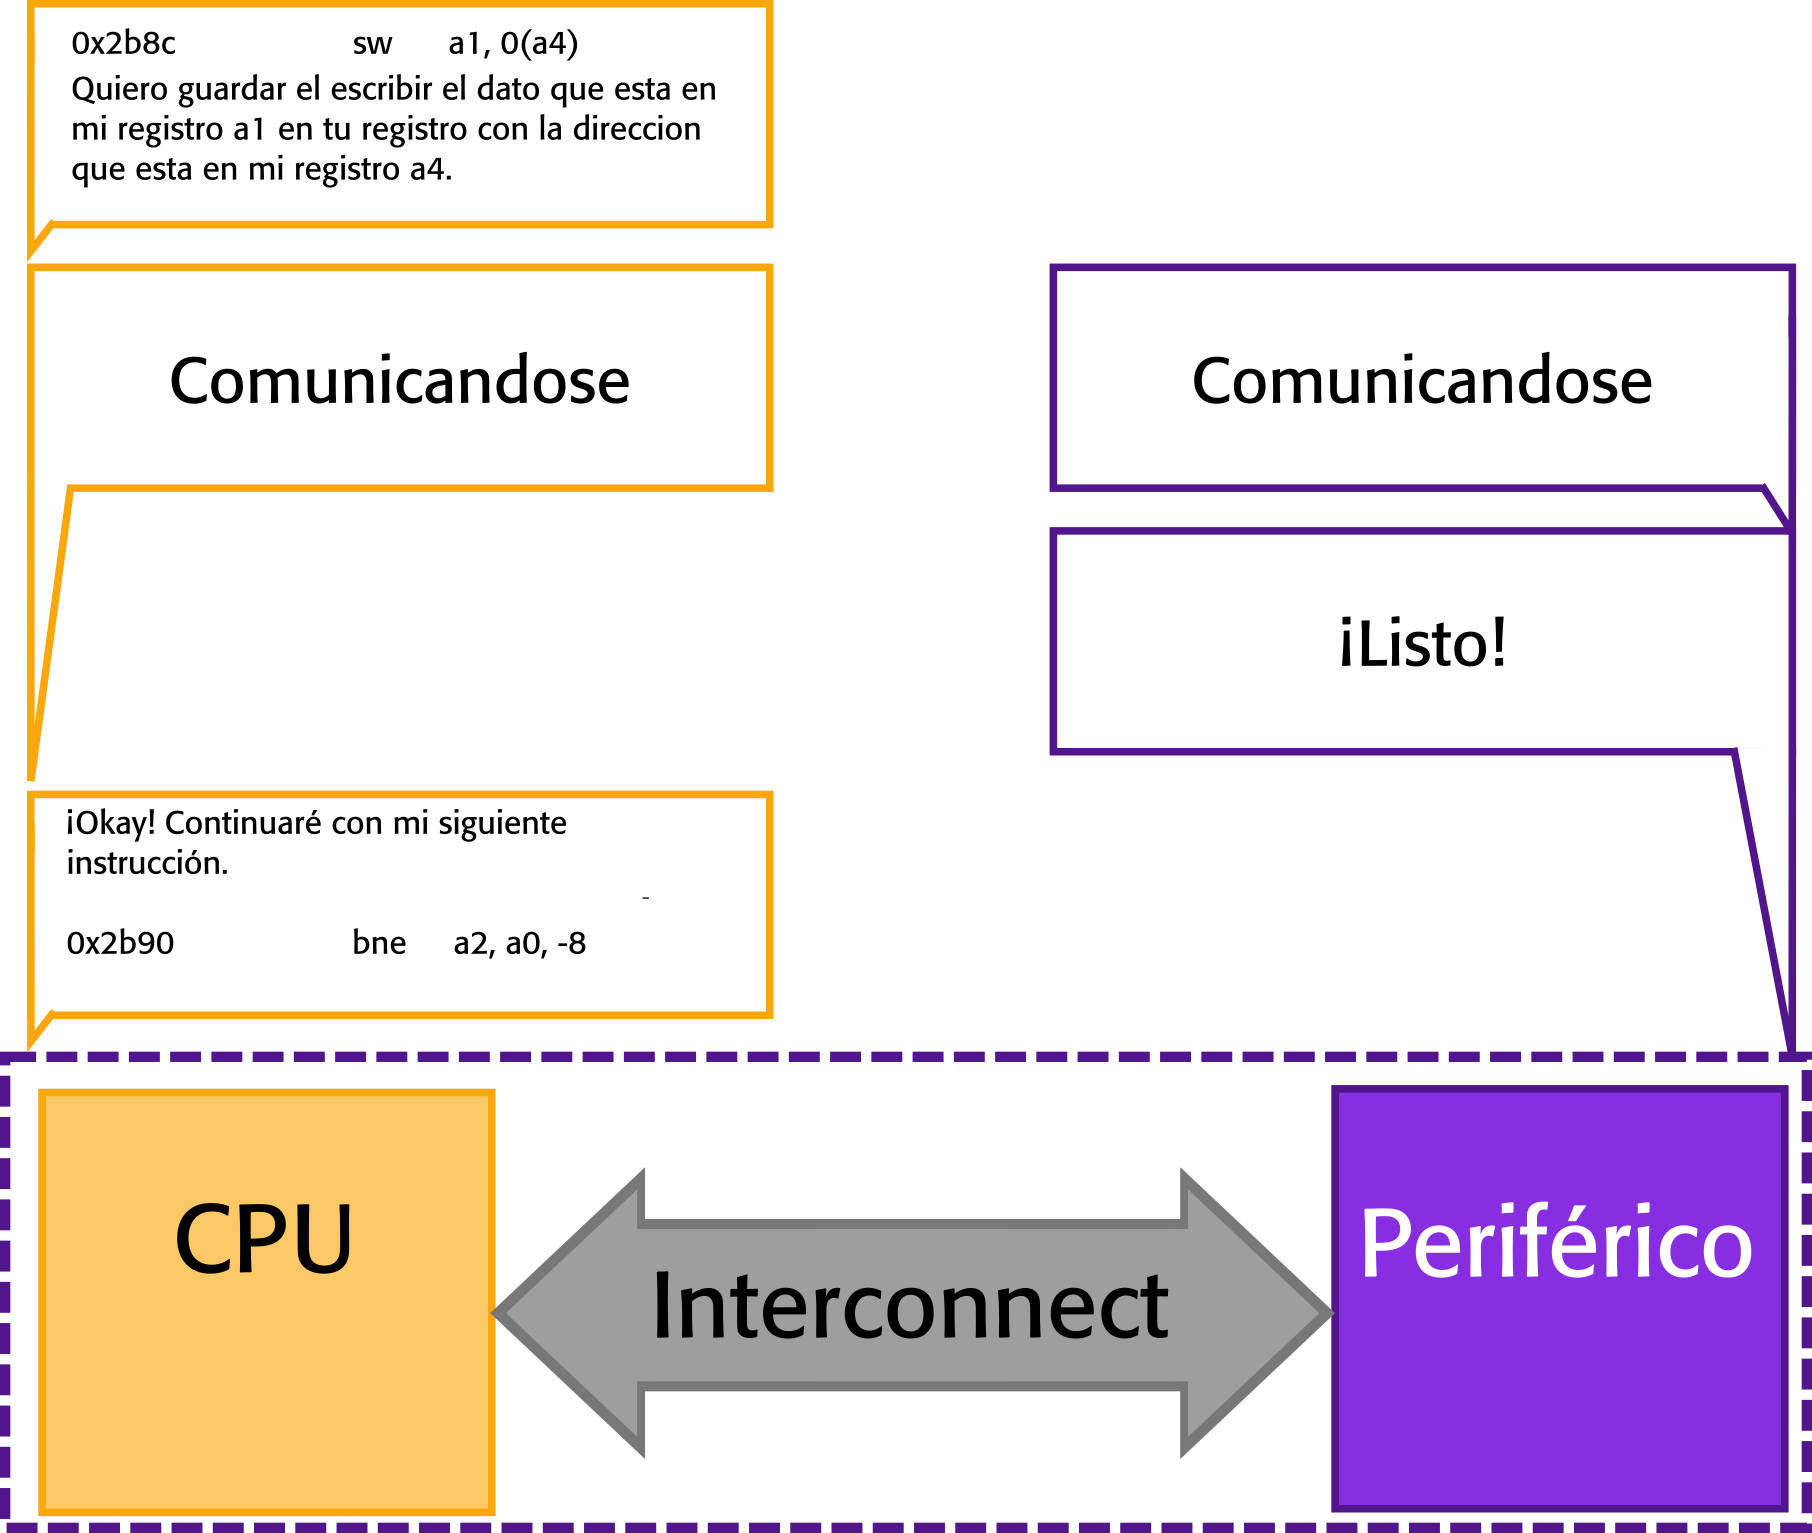
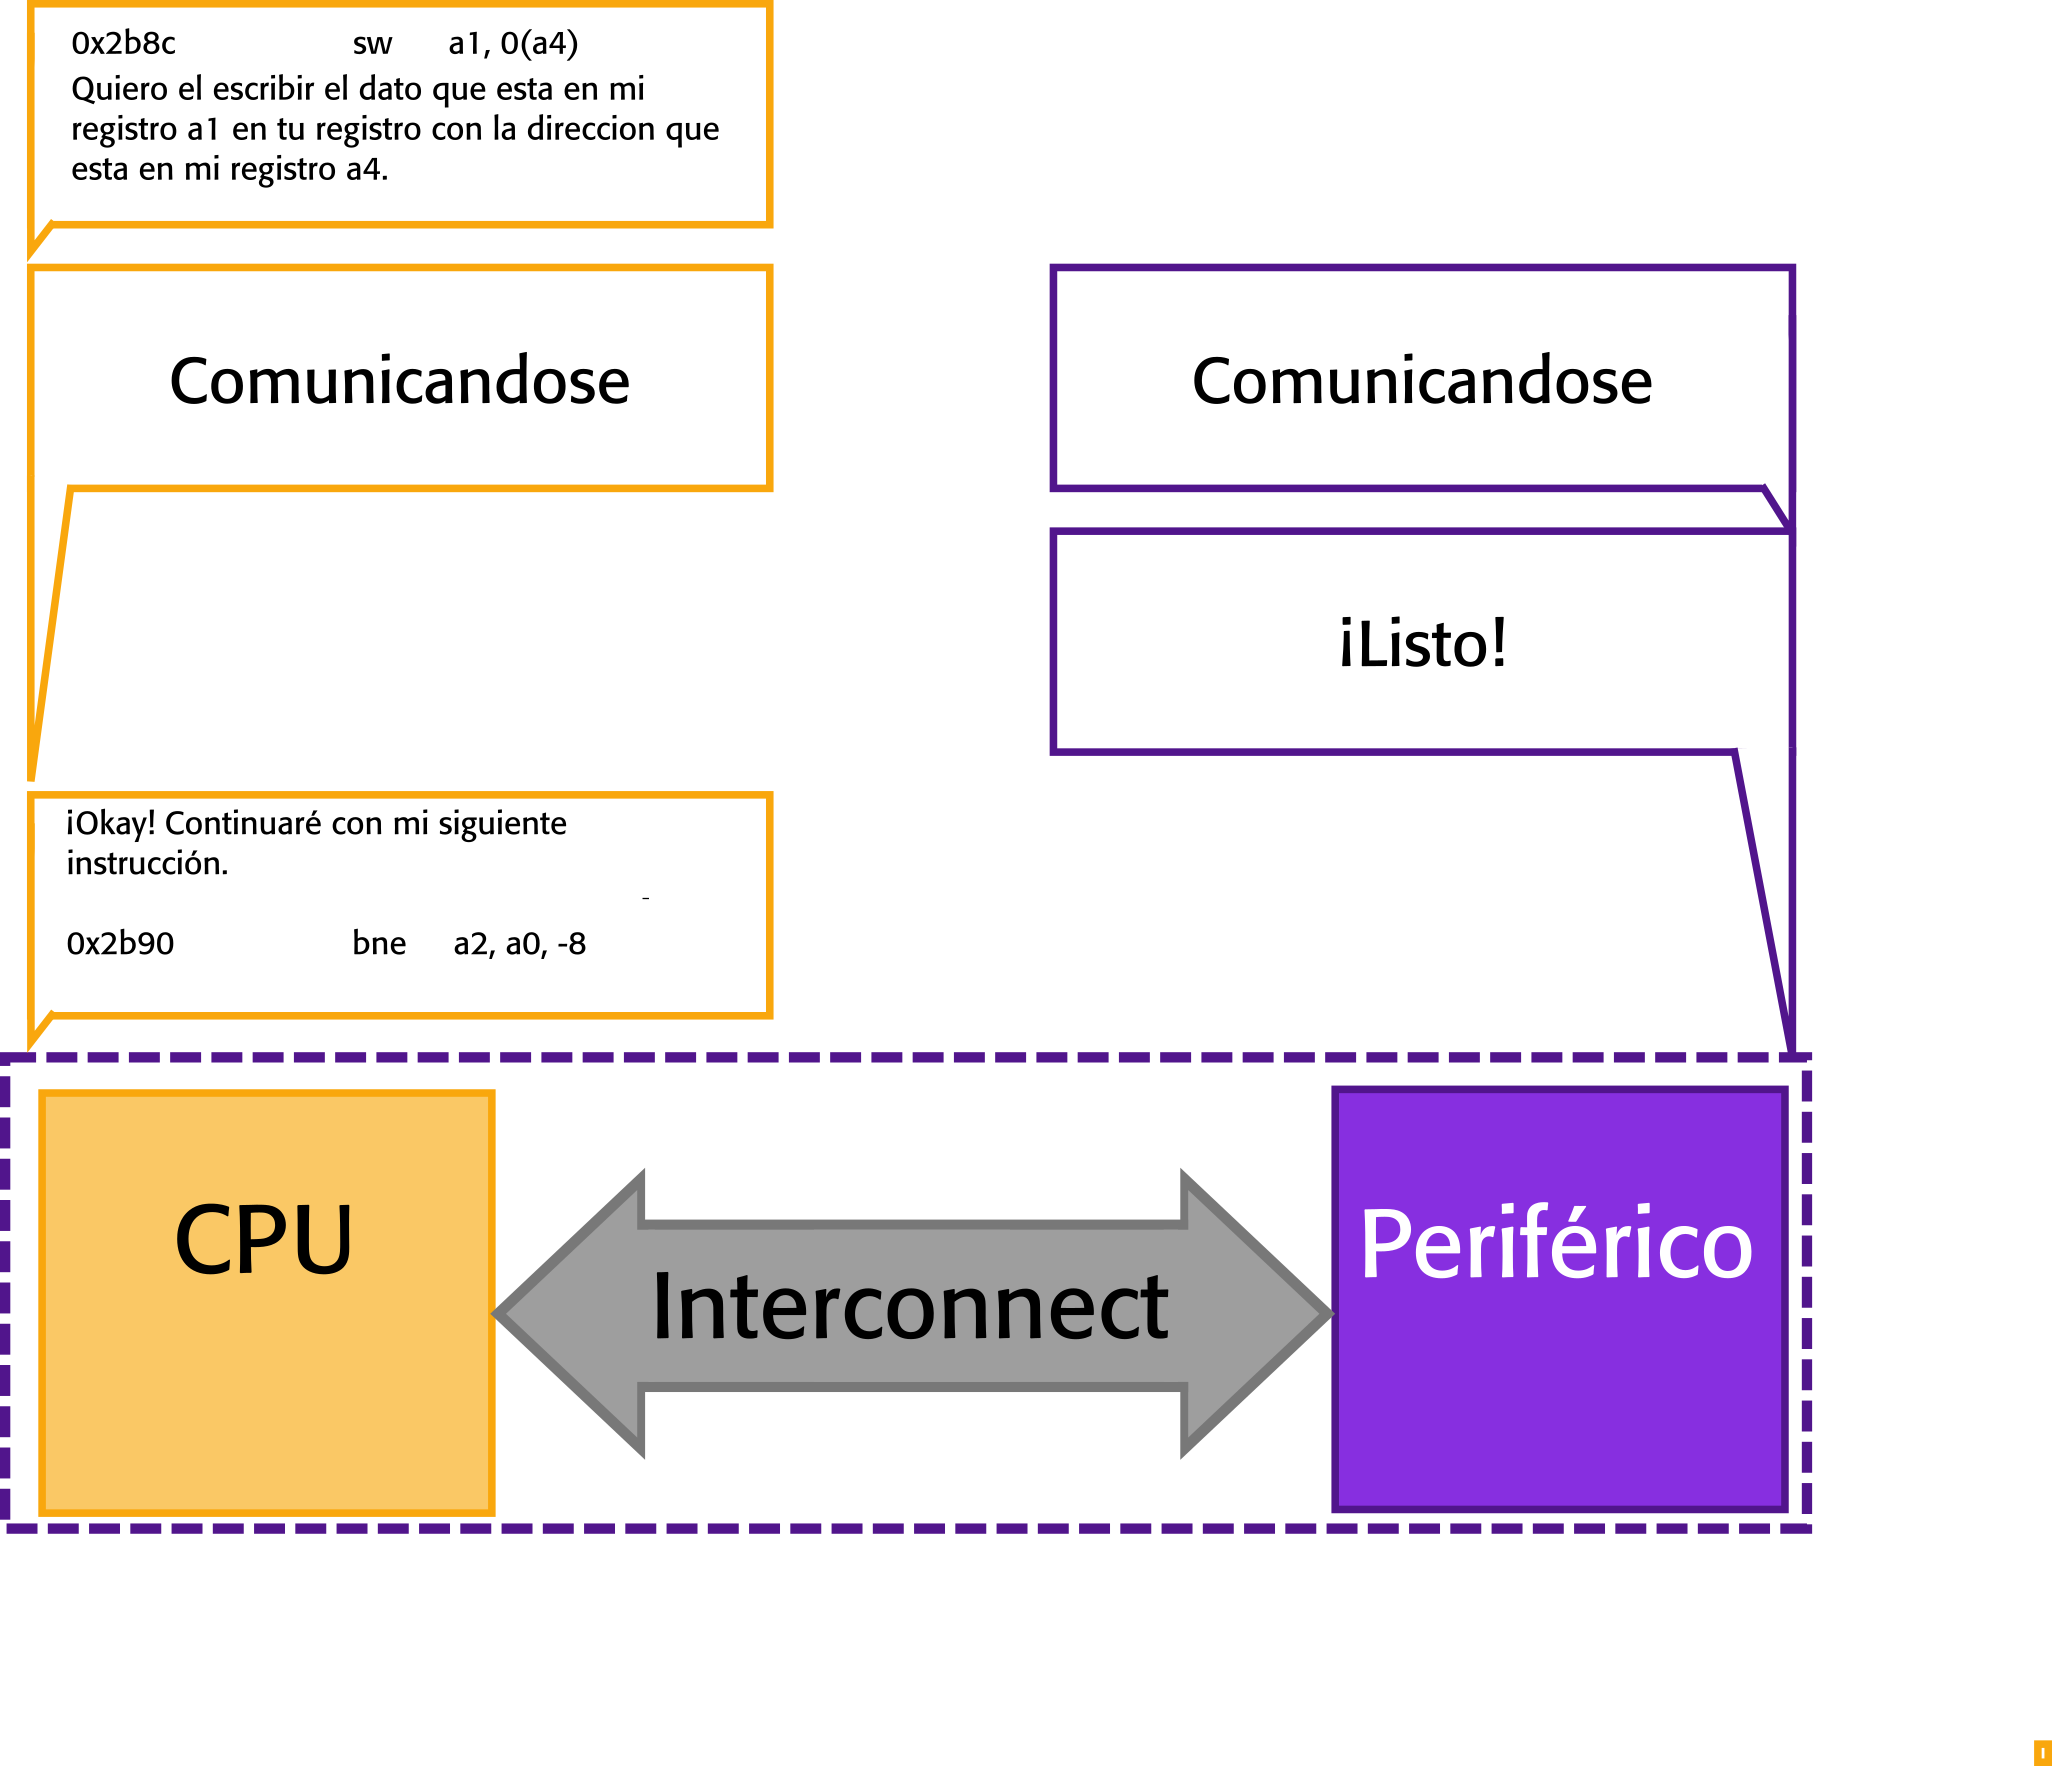
Added assembly analysis

diff --git a/docs/javascripts/mathjax.js b/docs/javascripts/mathjax.js
@@ -1,0 +1,19 @@
+window.MathJax = {
+  tex: {
+    inlineMath: [["\\(", "\\)"]],
+    displayMath: [["\\[", "\\]"]],
+    processEscapes: true,
+    processEnvironments: true
+  },
+  options: {
+    ignoreHtmlClass: ".*|",
+    processHtmlClass: "arithmatex"
+  }
+};
+
+document$.subscribe(() => {
+  MathJax.startup.output.clearCache()
+  MathJax.typesetClear()
+  MathJax.texReset()
+  MathJax.typesetPromise()
+})

diff --git a/docs/Ejemplo_9_MedirLatencia/Ejemplo_9.md b/docs/Ejemplo_9_MedirLatencia/Ejemplo_9.md
@@ -102,25 +102,315 @@ Una vez realizadas todas las conexiones, se deberia ver como en la [](#fig_BD_Fi
 
 Tras verificar que el diseño esta correctamente diseñado a nivel de interconexiones, genere la envoltura de hdl, corra síntesis, implementacion y exporte el hardware.
 
-Agregar repo de sw...
+Una vez exportado el hardware, **NO CIERRE VIVADO**  y abra Vitis.
+
+Una vez en vitis, agregue la carpeta donde se guardan los drivers a los repositorios de software como se vio en guias anteriores.
 
 
+![Carpeta de driver agregada a los repositorios de software](img/software_Repo.png){ #fig_Software_repo width="1500" }
 
-![Template](img/software_Repo.png){ #fig_Software_repo width="1500" }
+Genere el componente de plataforma, deberia poder visualizar los periféricos en la perspectiva de BSP.
 
+![Drivers de periféricos vistos desde el BSP](img/Drivers.png){ #fig_Software_repo width="1500" }
 
-
-Generar plataforma 
-
-Ver drivers
-
-![Template](img/Drivers.png){ #fig_Software_repo width="1500" }
-
-Generar aplicación
+Finalmente genere el componente de aplicación.
 
 
 ## Diseño de Firmware
 
+Debido a la complejidad de este ejemplo, se hara uso de 3 componentes de aplicación, con 2 siendo asignados al analisis de los drivers de los perfiericos, mientras que el primer ejemplo esta dedicado a entender como la latencia de la comunicación afecta al uso efectivo del periférico por parte del procesador.
+
+### Ejemplo mínimo escritura
+
+Importe el ejemplo Test_assembly.c a su proyecto:
+```c
+#include "xil_printf.h"
+#include "xtmrctr.h"
+
+
+XTmrCtr     TimerInstance;
+
+#define TIMER_COUNTER_0   0
+#define TIMER_COUNTER_1   1
+
+int main(void)
+{
+    u32 ticks;
+    int Status;
+
+    Status = XTmrCtr_Initialize(&TimerInstance, XPAR_AXI_TIMER_0_BASEADDR);
+    if (Status != XST_SUCCESS) return XST_FAILURE;
+
+    /* ================================================================ */
+    /*  Overhead de medición.                                           */
+    /* ================================================================ */
+
+    XTmrCtr_Reset(&TimerInstance, TIMER_COUNTER_0);
+    XTmrCtr_Start(&TimerInstance, TIMER_COUNTER_0);
+    XTmrCtr_Stop(&TimerInstance, TIMER_COUNTER_0);
+    ticks = XTmrCtr_GetValue(&TimerInstance, TIMER_COUNTER_0);
+
+    xil_printf("Overhead ventana vacia: %d\r\n", ticks);
+
+
+
+    /* ================================================================ */
+    /*  Medición de escritura en un periferico                          */
+    /* ================================================================ */
+
+
+    u32 value = 1; 
+    u32 addr  = XPAR_AXI_LITE_ADDER_TREE_0_BASEADDR;
+
+    XTmrCtr_Reset(&TimerInstance, TIMER_COUNTER_0);
+    XTmrCtr_Start(&TimerInstance, TIMER_COUNTER_0);
+    __asm__ volatile (
+        "sw %0, 0(%1)"            
+        :                         
+        : "r"(value), "r"(addr)   
+        : "memory"
+    );
+    XTmrCtr_Stop(&TimerInstance, TIMER_COUNTER_0);
+    ticks = XTmrCtr_GetValue(&TimerInstance, TIMER_COUNTER_0);
+    xil_printf("ticks = %d\r\n", ticks);
+
+    /* ================================================================ */
+    /*  Medición de escritura en un periferico con 1 NOP                */
+    /* ================================================================ */
+
+
+     value = 1;  
+     addr  = XPAR_AXI_LITE_ADDER_TREE_0_BASEADDR;
+
+    XTmrCtr_Reset(&TimerInstance, TIMER_COUNTER_0);
+    XTmrCtr_Start(&TimerInstance, TIMER_COUNTER_0);
+    __asm__ volatile(
+    "nop\n\t"
+    "sw %0, 0(%1)\n\t"
+    :
+    : "r"(value), "r"(addr)
+    : "memory");
+    XTmrCtr_Stop(&TimerInstance, TIMER_COUNTER_0);
+    ticks = XTmrCtr_GetValue(&TimerInstance, TIMER_COUNTER_0);
+    xil_printf("ticks 1 nop = %d\r\n", ticks);
+
+    /* ================================================================ */
+    /*  Medición de escritura en un periferico con 2 NOP                */
+    /* ================================================================ */
+
+
+     value = 1;  
+     addr  = XPAR_AXI_LITE_ADDER_TREE_0_BASEADDR;
+
+    XTmrCtr_Reset(&TimerInstance, TIMER_COUNTER_0);
+    XTmrCtr_Start(&TimerInstance, TIMER_COUNTER_0);
+    __asm__ volatile(
+    "nop\n\t"
+    "nop\n\t"
+    "sw %0, 0(%1)\n\t"
+    :
+    : "r"(value), "r"(addr)
+    : "memory");
+    XTmrCtr_Stop(&TimerInstance, TIMER_COUNTER_0);
+    ticks = XTmrCtr_GetValue(&TimerInstance, TIMER_COUNTER_0);
+    xil_printf("ticks 2 nop = %d\r\n", ticks);
+
+
+
+    /* ================================================================ */
+    /*  Medición de escritura en un periferico con 3 NOP                */
+    /* ================================================================ */
+
+
+     value = 1;  
+     addr  = XPAR_AXI_LITE_ADDER_TREE_0_BASEADDR;
+
+    XTmrCtr_Reset(&TimerInstance, TIMER_COUNTER_0);
+    XTmrCtr_Start(&TimerInstance, TIMER_COUNTER_0);
+    __asm__ volatile(
+    "nop\n\t"
+    "nop\n\t"
+    "nop\n\t"
+    "sw %0, 0(%1)\n\t"
+    :
+    : "r"(value), "r"(addr)
+    : "memory");
+    XTmrCtr_Stop(&TimerInstance, TIMER_COUNTER_0);
+    ticks = XTmrCtr_GetValue(&TimerInstance, TIMER_COUNTER_0);
+    xil_printf("ticks 3 nop = %d\r\n", ticks);
+    xil_printf("\r\n");
+   
+    return 0;
+}
+```
+Este codigo tiene el proposito de contar la cantidad de ciclos que se demora realizar una escritura en un periférico desde el procesador, para esto se inicia con una medicion del overhead que introduce el temporadizador para tenerlo en cuenta al momento de realizar las pruebas, tras lo cual se realizan distintas pruebas de escrituras sobre el periférico.
+
+Como se puede apreciar en el codigo desplegado, para poder bajar a un nivel de abstraccion mas bajo se hace uso de inline assembly, permitiendonos mayor control al momento de realizar escrituras. En este caso observando la diferencia entre el assembly de la primera medición podemos empezar a notar diferencias:
+
+
+
+
+<style>
+.asm-compare, .asm-compare tr, .asm-compare th, .asm-compare td {
+  border: none !important;
+  background: transparent !important;
+    margin-left: auto !important;
+  margin-right: auto !important;
+}
+.asm-compare pre, .asm-compare code {
+  font-size: 1em !important;
+}
+</style>
+
+<table class="asm-compare">
+<tr>
+<th>Medición Overhead</th>
+<th>Medición escritura sin NOP</th>
+</tr>
+<tr>
+<td>
+
+```asm
+940:  li    a1,0        # TIMER_COUNTER_0
+944:  lui   a5,0x2
+948:  addi  a0,a5,1956  # &TimerInstance
+94c:  auipc ra,0x1
+950:  jalr  1744(ra)    # llama a XTmrCtr_Stop
+```
+
+</td>
+<td>
+
+```asm
+9c8:  lw    a5,-36(s0)   # carga 'value' desde stack  
+9cc:  lw    a4,-40(s0)   # carga 'addr' desde stack   
+9d0:  sw    a5,0(a4)     # escribe a 0x44a00000       
+9d4:  li    a1,0
+9d8:  lui   a5,0x2
+9dc:  addi  a0,a5,1956
+9e0:  auipc ra,0x1
+9e4:  jalr  1596(ra)     # llama a XTmrCtr_Stop
+```
+
+</td>
+</tr>
+</table>
+
+Las diferencias entre ambos experimentos corresponden a tres instrucciones: dos instrucciones lw, que cargan desde el stack hacia los registros la dirección del periférico y el valor a escribir, y la instrucción `sw a5,0(a4)`, que realiza la escritura en el periférico. La instrucción sw utiliza como dirección el registro a4, cargado por la instrucción lw inmediatamente anterior, por lo que se produce un stall: el procesador detiene el avance de la instrucción dependiente en el pipeline hasta que el dato cargado esté disponible. En el pipeline de 5 etapas de MicroBlaze V, cuando una instrucción en la etapa de decodificación requiere el resultado de una carga que aún se encuentra en la etapa de ejecución, se produce un stall de 1 a 2 ciclos [como señala el manual](https://docs.amd.com/r/en-US/ug1629-microblaze-v-user-guide/5-Stage-Pipeline). Para poder verificar esto, se incluyen variaciones de la medición con 1,2 y 3 NOP.
+
+Luego, la escritura solo se considera completada cuando el procesador recibe, a través de la interfaz M_AXI_DP, la respuesta de escritura (canal B) proveniente del periférico a través del interconnect. Para verificar esto se hará uso del System ILA, como se vio en guias anteriores, hay que cambiar la configuración en vitis de tal manera que Vivado realice la programación del dispositivo a nivel de hardware
+
+
+![Configuración de ejecucion Vitis](img/no_program.png){ #fig width="1000" }
+
+Luego configure el gatillo del system ILA de tal manera que AWVALID del slot 2 (asociado al adder tree descrito en verilog) como se ve en la [](#fig-ILA-CHANNEL).
+
+![Configuración canal ILA](img/Ila_channel.png){ #fig-ILA-CHANNEL width="1500"}
+
+Finalmente programe el hardware y programe el ILA, luego ejecute la aplicacion desde Vitis, deberia visualizar la forma de onda en la [](#fig-WV). 
+
+![Comunicacion visualizada en el System ILA](img/ILA_WAVEFORM.png){ #fig-WV width="1500" }
+
+
+Esto nos dice que para esta configuración, la escritura de este dato se demora 9 ciclos de reloj, note que esto puede tener una variabilidad de un ciclo. Luego si tenemos en cuenta las instrucciones asociadas, siendo estas los dos lw y el sw :
+
+
+$$
+N_{cycles}= AXI_{transfer} + N_{instructions}+Stall_{cycles} 
+$$
+
+$$
+N_{cycles}= 9\pm1 + 3 +Stall_{cycles} 
+$$
+
+Luego si nos fijamos en el snippet de assembly nuevamente, podemos identificar la fuente del stall.
+
+
+```asm
+9c8:  lw    a5,-36(s0)   # carga 'value' desde stack al registro a5 
+9cc:  lw    a4,-40(s0)   # carga 'addr' desde stack al registro a4 (genera stall para que el valor de a4 este listo en la siguiente instruccion)
+9d0:  sw    a5,0(a4)     # escribe a 0x44a00000       
+9d4:  li    a1,0
+9d8:  lui   a5,0x2
+9dc:  addi  a0,a5,1956
+9e0:  auipc ra,0x1
+9e4:  jalr  1596(ra)     # llama a XTmrCtr_Stop
+```
+
+Se tienen dos ciclos de stall, por lo que se tiene
+
+$$
+N_{cycles}= 9\pm1 + 3 +2 
+$$
+
+$$
+N_{cycles}= 14\pm1 
+$$
+
+Finalmente para comprobar el stack, se mandan versiones con multiples NOP (No operation)
+
+<style>
+.asm-compare, .asm-compare tr, .asm-compare th, .asm-compare td {
+  border: none !important;
+  background: transparent !important;
+    margin-left: auto !important;
+  margin-right: auto !important;
+}
+.asm-compare pre, .asm-compare code {
+  font-size: 1em !important;
+}
+</style>
+
+<table class="asm-compare">
+<tr>
+<th>Medición escritura sin NOP</th>
+<th>Medición escritura con 2 NOP</th>
+</tr>
+<tr>
+<td>
+
+```asm
+9c8:  lw    a5,-36(s0)   # carga 'value' desde stack  
+9cc:  lw    a4,-40(s0)   # carga 'addr' desde stack   
+9d0:  sw    a5,0(a4)     # escribe a 0x44a00000       
+9d4:  li    a1,0
+9d8:  lui   a5,0x2
+9dc:  addi  a0,a5,1956
+9e0:  auipc ra,0x1
+9e4:  jalr  1596(ra)     # llama a XTmrCtr_Stop
+```
+
+</td>
+<td>
+
+```asm
+9c8:  lw    a5,-36(s0)   # carga 'value' desde stack  
+9cc:  lw    a4,-40(s0)   # carga 'addr' desde stack   
+9d0:  nop    # No se realiza ninguna operacion
+9d4:  nop    # No se realiza ninguna operacion  
+9d8:  sw    a5,0(a4)     # escribe a 0x44a00000 
+9dc:  li    a1,0
+9e0:  lui   a5,0x2
+9e4:  addi  a0,a5,1956
+9e8:  auipc ra,0x1
+9ec:  jalr  1596(ra)     # llama a XTmrCtr_Stop
+```
+
+</td>
+</tr>
+</table>
+
+Se realiza este experimento para comprobar en que punto estos influyen en la latencia del código, se realiza la misma operacion de lectura con 0,1,2 y 3 NOPs.
+
+
+En este caso se lanzo multiples veces la aplicación para ver que los resultados fueran consistentes.
+
+
+![Visualizacion Hterm](img/hterm.png){ #fig width="300" }
+
+El experimento con instrucciones **nop** confirma un stall de dos ciclos: al insertar una o dos instrucciones **nop** el tiempo total no aumenta, ya que estas ocupan los ciclos que antes correspondían al stall. Cuando se agregan 3 NOPs se puede apreciar como consistentemente es la medición que usa mayor tiempo.
+
+Tambien al obtener la diferencia entre la medición y el overhead se obtienen consistentemente 14-15 ciclos, validando el análisis.
 
 ### Análisis de driver de periférico diseñado en Verilog
 
